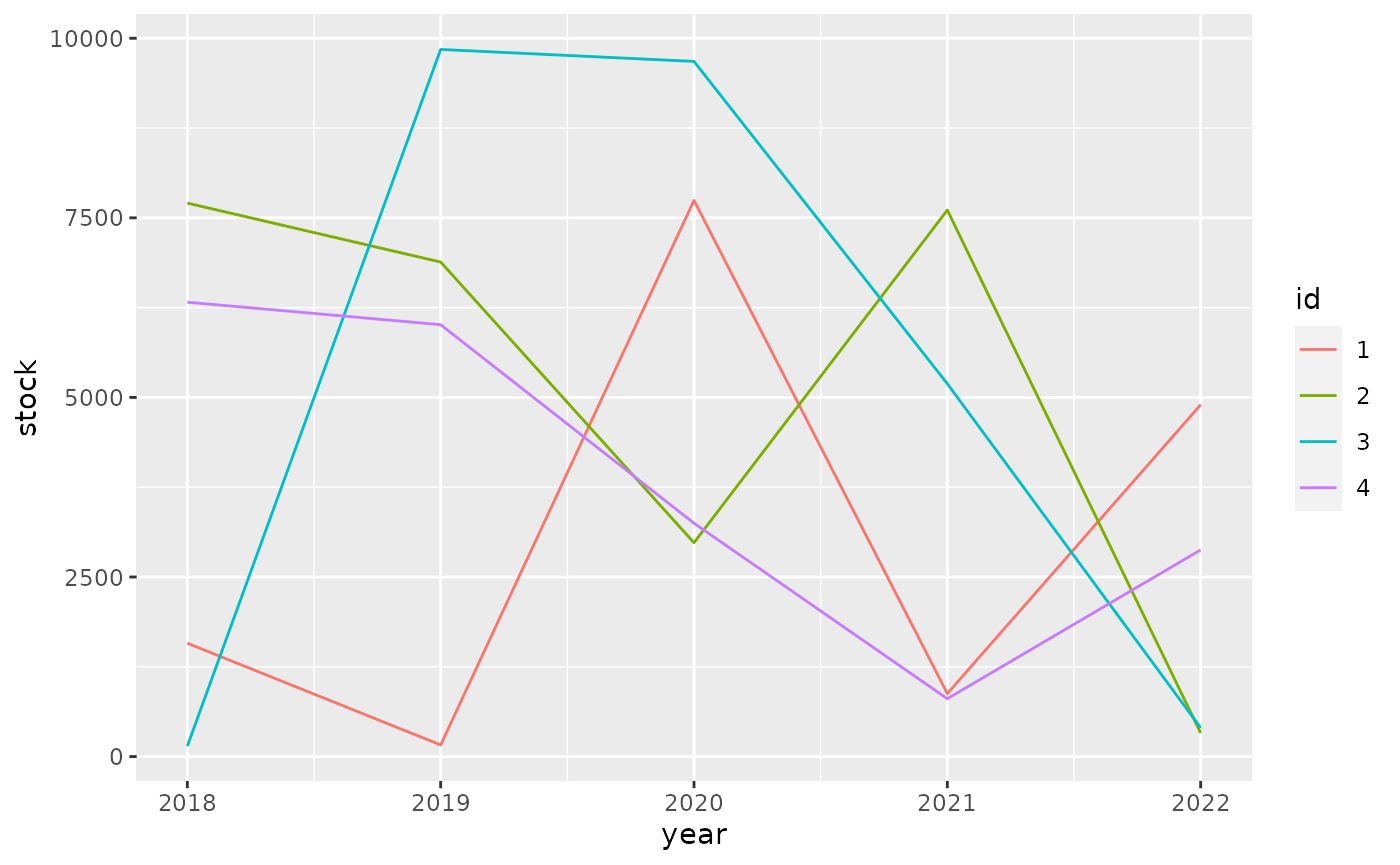
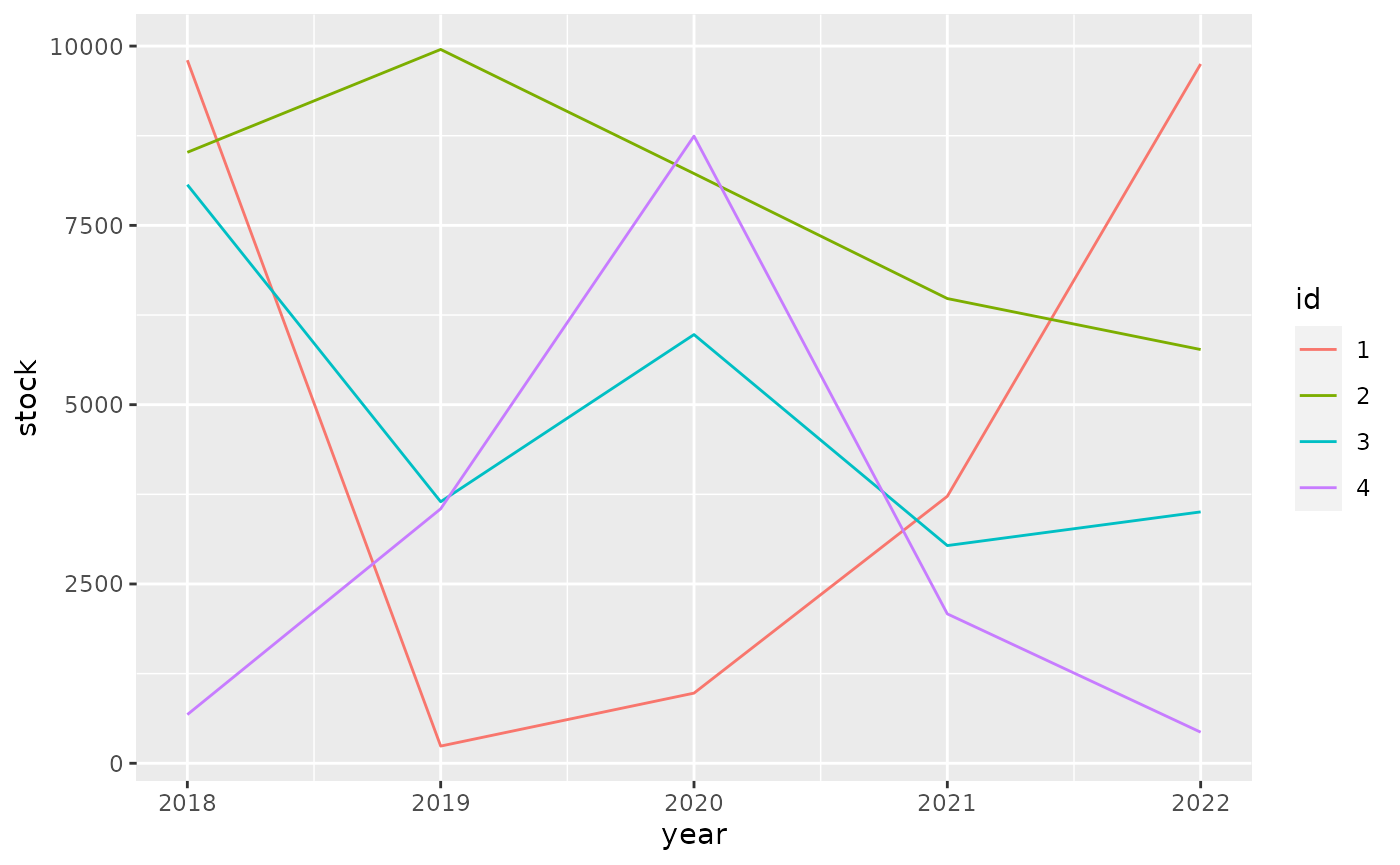
Built site for tibble: 3.1.3.9002@f344af5

diff --git a/dev/articles/formats.html b/dev/articles/formats.html
@@ -221,10 +221,10 @@
 <span class="co">#&gt; # A tibble: 4 × 6</span>
 <span class="co">#&gt;   id       `2018`    `2019`    `2020`    `2021`    `2022`</span>
 <span class="co">#&gt;   &lt;fct&gt; &lt;dbl:fmt&gt; &lt;dbl:fmt&gt; &lt;dbl:fmt&gt; &lt;dbl:fmt&gt; &lt;dbl:fmt&gt;</span>
-<span class="co">#&gt; 1 1     $1,578.02   $161.92 $7,742.34   $876.83 $4,897.91</span>
-<span class="co">#&gt; 2 2     $7,705.09 $6,884.47 $2,977.15 $7,607.94   $329.02</span>
-<span class="co">#&gt; 3 3       $146.19 $9,844.15 $9,677.28 $5,190.39   $399.98</span>
-<span class="co">#&gt; 4 4     $6,325.68 $6,012.08 $3,248.64   $805.40 $2,877.39</span></code></pre></div>
+<span class="co">#&gt; 1 1     $9,803.02   $239.70   $978.13 $3,722.74 $9,750.07</span>
+<span class="co">#&gt; 2 2     $8,518.65 $9,953.13 $8,222.77 $6,479.74 $5,768.77</span>
+<span class="co">#&gt; 3 3     $8,066.88 $3,646.76 $5,977.48 $3,035.51 $3,505.16</span>
+<span class="co">#&gt; 4 4       $678.62 $3,548.05 $8,744.49 $2,083.00   $433.44</span></code></pre></div>
 <p>For ggplot2 we need to do <a href="https://github.com/tidyverse/ggplot2/pull/4065" class="external-link">some work</a> to show apply the formatting to the scales.</p>
 <div class="sourceCode" id="cb6"><pre class="downlit sourceCode r">
 <code class="sourceCode R"><span class="kw"><a href="https://rdrr.io/r/base/library.html" class="external-link">library</a></span><span class="op">(</span><span class="va"><a href="https://ggplot2.tidyverse.org" class="external-link">ggplot2</a></span><span class="op">)</span>
@@ -235,10 +235,10 @@
   <span class="fu"><a href="https://ggplot2.tidyverse.org/reference/geom_path.html" class="external-link">geom_line</a></span><span class="op">(</span><span class="op">)</span></code></pre></div>
 <p><img src="formats_files/figure-html/unnamed-chunk-7-1.png" width="700"></p>
 <p>It pays off to specify formatting very early in the process. The diagram below shows the principal stages of data analysis and exploration from “R for data science”.</p>
-<div id="htmlwidget-0b0a597c27c813b1f88f" style="width:700px;height:432.632880098888px;" class="DiagrammeR html-widget"></div>
-<script type="application/json" data-for="htmlwidget-0b0a597c27c813b1f88f">{"x":{"diagram":"graph TD\n  Import --> Tidy\n  Tidy --> Transform\n  Transform --> Visualize\n  Visualize --> Communicate\n  Visualize --> Model\n  Model -.-> Transform"},"evals":[],"jsHooks":[]}</script><p>The subsequent diagram adds data formats, communication options, and explicit data formatting. The original r4ds transitions are highlighted in bold. There are two principal options where to apply formatting for results: right before communicating them, or right after importing.</p>
-<div id="htmlwidget-9ba6e04ee1c75a75bb7e" style="width:700px;height:432.632880098888px;" class="DiagrammeR html-widget"></div>
-<script type="application/json" data-for="htmlwidget-9ba6e04ee1c75a75bb7e">{"x":{"diagram":"graph TD\n  .csv --> Import\n  API --> Import\n  DBI --> Import\n  dbplyr --> Import\n  Import -.-> Format[Format for analysis]\n  Format -.-> Tidy\n\n  subgraph r4ds\n  Import ==> Tidy\n  Tidy ==> Transform\n  Transform ==> Visualize\n  Visualize ==> Model\n  Model -.-> Transform\n  Visualize ==> Communicate\n  end\n\n  Visualize -.-> FormatComm[Format for communication]\n  FormatComm -.-> Communicate\n\n  FormatComm -- Apply formatting early --> Format\n\n  dbplyr -.-> Tidy\n  dbplyr -.-> Transform\n  dbplyr -.-> Visualize\n\n  Communicate --> gt\n  Communicate --> ggplot2\n  Communicate --> DT\n  Communicate --> plotly"},"evals":[],"jsHooks":[]}</script><p>Applying formatting early in the process gives the added benefit of showing the data in a useful format during the “Tidy”, “Transform”, and “Visualize” stages. For this to be useful, we need to ensure that the formatting options applied early:</p>
+<div id="htmlwidget-3e1d08f59ae62bf1bede" style="width:700px;height:432.632880098888px;" class="DiagrammeR html-widget"></div>
+<script type="application/json" data-for="htmlwidget-3e1d08f59ae62bf1bede">{"x":{"diagram":"graph TD\n  Import --> Tidy\n  Tidy --> Transform\n  Transform --> Visualize\n  Visualize --> Communicate\n  Visualize --> Model\n  Model -.-> Transform"},"evals":[],"jsHooks":[]}</script><p>The subsequent diagram adds data formats, communication options, and explicit data formatting. The original r4ds transitions are highlighted in bold. There are two principal options where to apply formatting for results: right before communicating them, or right after importing.</p>
+<div id="htmlwidget-dde3d47075b227979af3" style="width:700px;height:432.632880098888px;" class="DiagrammeR html-widget"></div>
+<script type="application/json" data-for="htmlwidget-dde3d47075b227979af3">{"x":{"diagram":"graph TD\n  .csv --> Import\n  API --> Import\n  DBI --> Import\n  dbplyr --> Import\n  Import -.-> Format[Format for analysis]\n  Format -.-> Tidy\n\n  subgraph r4ds\n  Import ==> Tidy\n  Tidy ==> Transform\n  Transform ==> Visualize\n  Visualize ==> Model\n  Model -.-> Transform\n  Visualize ==> Communicate\n  end\n\n  Visualize -.-> FormatComm[Format for communication]\n  FormatComm -.-> Communicate\n\n  FormatComm -- Apply formatting early --> Format\n\n  dbplyr -.-> Tidy\n  dbplyr -.-> Transform\n  dbplyr -.-> Visualize\n\n  Communicate --> gt\n  Communicate --> ggplot2\n  Communicate --> DT\n  Communicate --> plotly"},"evals":[],"jsHooks":[]}</script><p>Applying formatting early in the process gives the added benefit of showing the data in a useful format during the “Tidy”, “Transform”, and “Visualize” stages. For this to be useful, we need to ensure that the formatting options applied early:</p>
 <ul>
 <li>give a good user experience for analysis
 <ul>

diff --git a/dev/articles/types.html b/dev/articles/types.html
@@ -352,7 +352,7 @@
 #&gt; $ factor        &lt;fct&gt; A
 #&gt; $ ordered       &lt;ord&gt; a
 #&gt; $ Date          &lt;date&gt; 2021-08-01
-#&gt; $ POSIXt        &lt;dttm&gt; 2021-08-01 08:11:10
+#&gt; $ POSIXt        &lt;dttm&gt; 2021-08-01 08:41:54
 #&gt; $ difftime      &lt;drtn&gt; 1 secs
 #&gt; $ hms           &lt;time&gt; 00:00:01
 #&gt; $ integer64     &lt;int64&gt; 10000000000
@@ -388,7 +388,7 @@
 <span class="co">#&gt;             "sym"</span>
 <span class="co">#&gt;         }, typeof(x))</span>
 <span class="co">#&gt; }</span>
-<span class="co">#&gt; &lt;bytecode: 0x55c4bb2f87f0&gt;</span>
+<span class="co">#&gt; &lt;bytecode: 0x55fed0939df8&gt;</span>
 <span class="co">#&gt; &lt;environment: namespace:pillar&gt;</span></code></pre></div>
 </div>
   </div>
